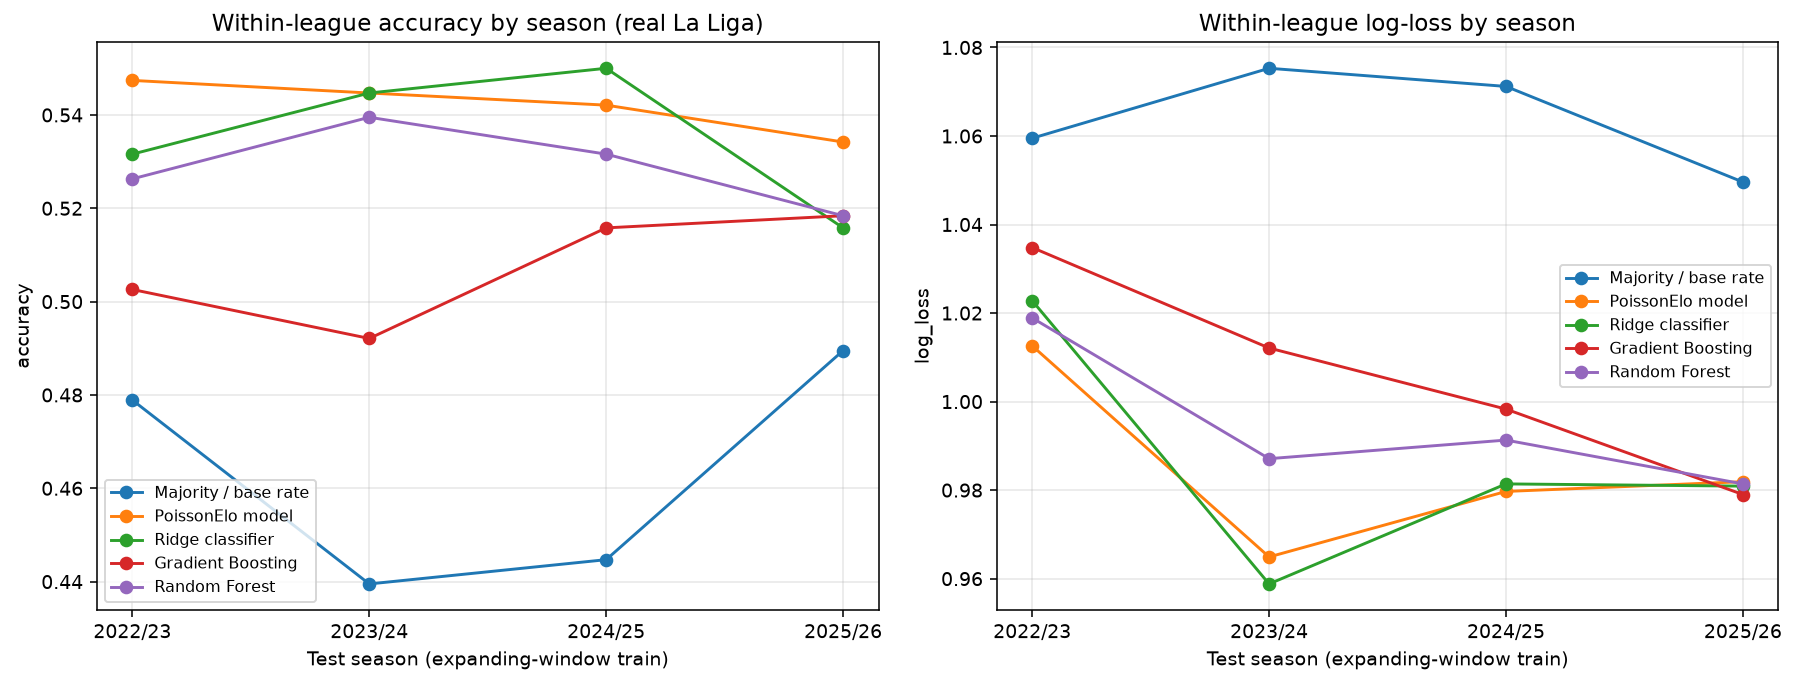
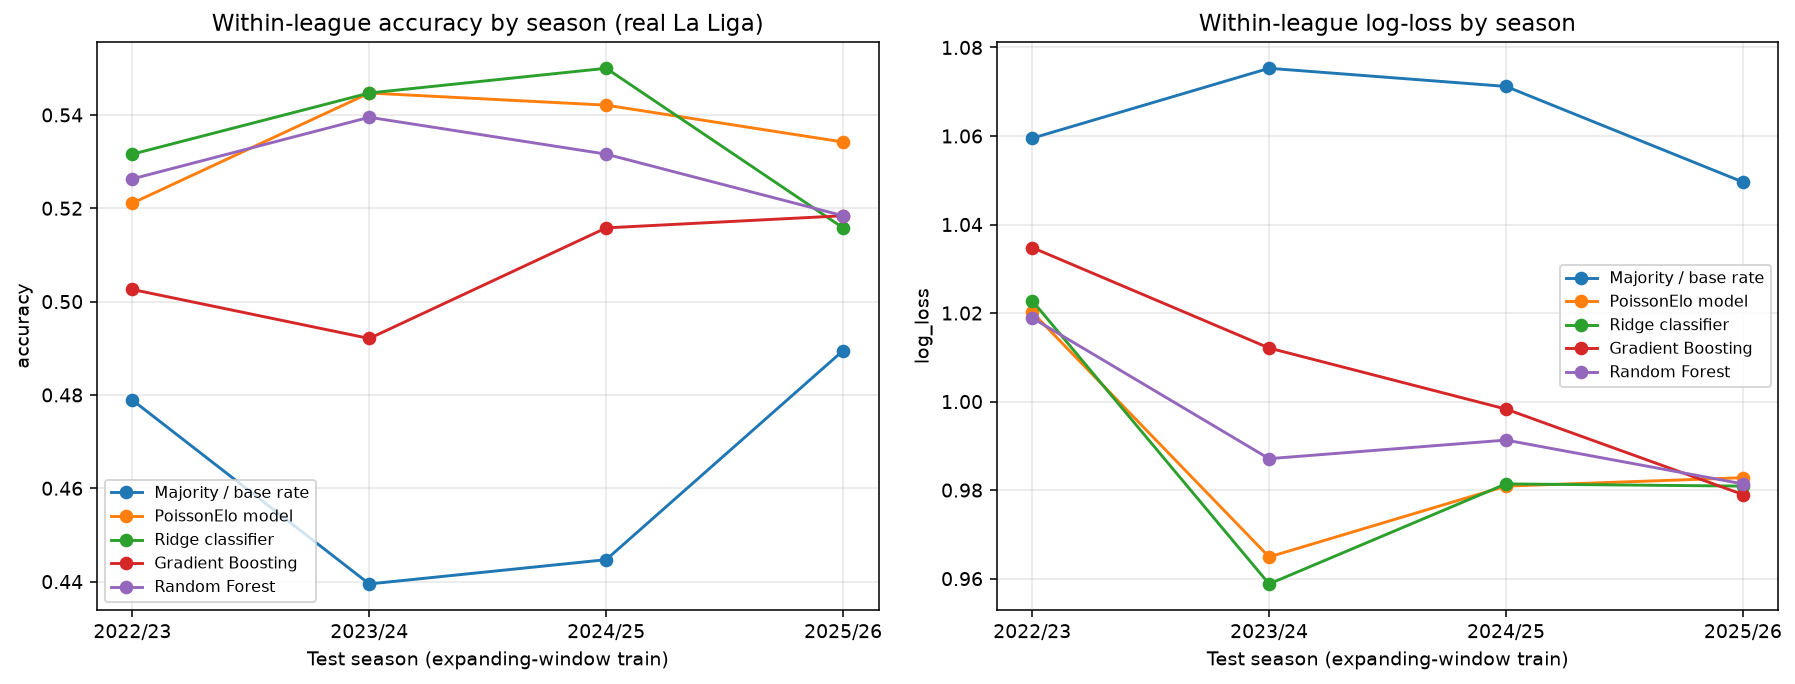
Regenerate real-data artifacts with the Dixon-Coles correction
Season backtest, deep-learning-real and adaptive-transfer outputs now
reflect the DC-adjusted Poisson model (rho fitted on real football data).
Changes are confined to the PoissonElo rows, e.g. La Liga 2022/23 test
ECE 0.081 -> 0.057 (better calibrated) with a small accuracy shift -
the intended effect of the correction.

🤖 Generated with Codebuff

diff --git a/docs/05_season_backtest.md b/docs/05_season_backtest.md
@@ -9,22 +9,22 @@ matches strictly before *i* (running Elo + last-5 form).
 ```
                                     experiment               method  accuracy  balanced_acc  log_loss  brier    ece
 La Liga: train 2021/22-2021/22 -> test 2022/23 Majority / base rate    0.4789        0.3333    1.0595 0.6390 0.0447
-La Liga: train 2021/22-2021/22 -> test 2022/23     PoissonElo model    0.5474        0.4503    1.0126 0.6034 0.0811
+La Liga: train 2021/22-2021/22 -> test 2022/23     PoissonElo model    0.5211        0.4331    1.0202 0.6079 0.0568
 La Liga: train 2021/22-2021/22 -> test 2022/23     Ridge classifier    0.5316        0.4387    1.0228 0.6078 0.0467
 La Liga: train 2021/22-2021/22 -> test 2022/23    Gradient Boosting    0.5026        0.3824    1.0348 0.6215 0.0599
 La Liga: train 2021/22-2021/22 -> test 2022/23        Random Forest    0.5263        0.4271    1.0189 0.6105 0.0613
 La Liga: train 2021/22-2022/23 -> test 2023/24 Majority / base rate    0.4395        0.3333    1.0753 0.6504 0.0171
-La Liga: train 2021/22-2022/23 -> test 2023/24     PoissonElo model    0.5447        0.4798    0.9649 0.5762 0.0723
+La Liga: train 2021/22-2022/23 -> test 2023/24     PoissonElo model    0.5447        0.4798    0.9649 0.5763 0.0709
 La Liga: train 2021/22-2022/23 -> test 2023/24     Ridge classifier    0.5447        0.4821    0.9588 0.5723 0.0528
 La Liga: train 2021/22-2022/23 -> test 2023/24    Gradient Boosting    0.4921        0.4077    1.0121 0.6062 0.0316
 La Liga: train 2021/22-2022/23 -> test 2023/24        Random Forest    0.5395        0.4723    0.9871 0.5875 0.0449
 La Liga: train 2021/22-2023/24 -> test 2024/25 Majority / base rate    0.4447        0.3333    1.0712 0.6477 0.0061
-La Liga: train 2021/22-2023/24 -> test 2024/25     PoissonElo model    0.5421        0.4625    0.9797 0.5824 0.0855
+La Liga: train 2021/22-2023/24 -> test 2024/25     PoissonElo model    0.5421        0.4644    0.9809 0.5832 0.0957
 La Liga: train 2021/22-2023/24 -> test 2024/25     Ridge classifier    0.5500        0.4765    0.9814 0.5827 0.0795
 La Liga: train 2021/22-2023/24 -> test 2024/25    Gradient Boosting    0.5158        0.4389    0.9983 0.5958 0.0343
 La Liga: train 2021/22-2023/24 -> test 2024/25        Random Forest    0.5316        0.4619    0.9913 0.5903 0.0240
 La Liga: train 2021/22-2024/25 -> test 2025/26 Majority / base rate    0.4895        0.3333    1.0496 0.6323 0.0401
-La Liga: train 2021/22-2024/25 -> test 2025/26     PoissonElo model    0.5342        0.4287    0.9819 0.5814 0.0517
+La Liga: train 2021/22-2024/25 -> test 2025/26     PoissonElo model    0.5342        0.4287    0.9828 0.5819 0.0561
 La Liga: train 2021/22-2024/25 -> test 2025/26     Ridge classifier    0.5158        0.4176    0.9809 0.5792 0.0481
 La Liga: train 2021/22-2024/25 -> test 2025/26    Gradient Boosting    0.5184        0.4182    0.9790 0.5816 0.0459
 La Liga: train 2021/22-2024/25 -> test 2025/26        Random Forest    0.5184        0.4296    0.9814 0.5832 0.0444
@@ -35,12 +35,12 @@ La Liga: train 2021/22-2024/25 -> test 2025/26        Random Forest    0.5184   
 ```
                                           experiment               method  accuracy  balanced_acc  log_loss  brier    ece
 La Liga 21/22-24/25 -> Premier League 25/26 (unseen) Majority / base rate    0.4263        0.3333    1.0804 0.6542 0.0230
-La Liga 21/22-24/25 -> Premier League 25/26 (unseen)     PoissonElo model    0.4632        0.3786    1.0504 0.6333 0.0363
+La Liga 21/22-24/25 -> Premier League 25/26 (unseen)     PoissonElo model    0.4658        0.3818    1.0511 0.6338 0.0363
 La Liga 21/22-24/25 -> Premier League 25/26 (unseen)     Ridge classifier    0.4737        0.3955    1.0394 0.6267 0.0303
 La Liga 21/22-24/25 -> Premier League 25/26 (unseen)    Gradient Boosting    0.4763        0.4186    1.0518 0.6333 0.0443
 La Liga 21/22-24/25 -> Premier League 25/26 (unseen)        Random Forest    0.4737        0.4165    1.0531 0.6347 0.0349
 Premier League 21/22-24/25 -> La Liga 25/26 (unseen) Majority / base rate    0.4895        0.3333    1.0546 0.6355 0.0441
-Premier League 21/22-24/25 -> La Liga 25/26 (unseen)     PoissonElo model    0.4868        0.3783    1.0294 0.6169 0.0681
+Premier League 21/22-24/25 -> La Liga 25/26 (unseen)     PoissonElo model    0.4868        0.3783    1.0291 0.6167 0.0711
 Premier League 21/22-24/25 -> La Liga 25/26 (unseen)     Ridge classifier    0.4895        0.3906    1.0258 0.6130 0.0496
 Premier League 21/22-24/25 -> La Liga 25/26 (unseen)    Gradient Boosting    0.4868        0.3798    1.0202 0.6096 0.0606
 Premier League 21/22-24/25 -> La Liga 25/26 (unseen)        Random Forest    0.5026        0.4026    1.0139 0.6055 0.0605

diff --git a/docs/10_adaptive_transfer.md b/docs/10_adaptive_transfer.md
@@ -10,14 +10,14 @@ refits, so the gap isolates the value of adaptation.
 
 ```
                                                 experiment             method  majority_acc  accuracy  balanced_acc  log_loss  brier  acc_first_half  acc_second_half  refits  base_acc
-    Serie A -> Serie A 25/26 (within-league unseen season)           Adaptive      0.389474    0.4974        0.4520    1.0269 0.6158          0.4895           0.5053      32  0.389474
-    Serie A -> Serie A 25/26 (within-league unseen season) Static (frozen ML)      0.389474    0.4868        0.4350    1.0180 0.6093          0.4737           0.5000       0  0.389474
-          Serie A -> La Liga 25/26 (cross-league transfer)           Adaptive      0.489474    0.4605        0.3554    1.0449 0.6272          0.4842           0.4368      28  0.489474
-          Serie A -> La Liga 25/26 (cross-league transfer) Static (frozen ML)      0.489474    0.4868        0.3542    1.0390 0.6245          0.4737           0.5000       0  0.489474
-   Serie A -> Premier League 25/26 (cross-league transfer)           Adaptive      0.426316    0.4342        0.3742    1.0629 0.6420          0.4895           0.3789      32  0.426316
-   Serie A -> Premier League 25/26 (cross-league transfer) Static (frozen ML)      0.426316    0.4474        0.3637    1.0637 0.6422          0.4684           0.4263       0  0.426316
-Football -> synthetic basketball-like league (cross-sport)           Adaptive      0.548750    0.8063        0.7996    0.7350 0.4137          0.7775           0.8350      60  0.548750
-Football -> synthetic basketball-like league (cross-sport) Static (frozen ML)      0.548750    0.8113        0.8022    0.9023 0.5283          0.7850           0.8375       0  0.548750
+    Serie A -> Serie A 25/26 (within-league unseen season)           Adaptive      0.389474    0.4974        0.4554    1.0285 0.6166          0.4895           0.5053      32  0.389474
+    Serie A -> Serie A 25/26 (within-league unseen season) Static (frozen ML)      0.389474    0.4868        0.4350    1.0189 0.6098          0.4737           0.5000       0  0.389474
+          Serie A -> La Liga 25/26 (cross-league transfer)           Adaptive      0.489474    0.4632        0.3608    1.0474 0.6289          0.4895           0.4368      28  0.489474
+          Serie A -> La Liga 25/26 (cross-league transfer) Static (frozen ML)      0.489474    0.4868        0.3542    1.0412 0.6261          0.4737           0.5000       0  0.489474
+   Serie A -> Premier League 25/26 (cross-league transfer)           Adaptive      0.426316    0.4395        0.3806    1.0640 0.6428          0.4947           0.3842      32  0.426316
+   Serie A -> Premier League 25/26 (cross-league transfer) Static (frozen ML)      0.426316    0.4474        0.3637    1.0646 0.6429          0.4684           0.4263       0  0.426316
+Football -> synthetic basketball-like league (cross-sport)           Adaptive      0.548750    0.8063        0.7996    0.7457 0.4196          0.7775           0.8350      60  0.548750
+Football -> synthetic basketball-like league (cross-sport) Static (frozen ML)      0.548750    0.8113        0.8022    0.9146 0.5366          0.7850           0.8375       0  0.548750
 ```
 
 *(Saved by `scripts/10_adaptive_transfer.py`; full numbers in

diff --git a/docs/08_full_metrics_report.md b/docs/08_full_metrics_report.md
@@ -38,7 +38,7 @@ t-tests on the per-bet data, and the $1M simulation gets a bootstrap
             Transfer: Premier League                  sklearn Random Forest acc (CI)                       36.8% [0.3, 0.4]
             Transfer: Premier League PyTorch NN - cold start (no team info) acc (CI)                       42.6% [0.4, 0.5]
            Season backtest (La Liga)                        Majority / base rate acc                   46.3% (44.0%..48.9%)
-           Season backtest (La Liga)                            PoissonElo model acc                   54.2% (53.4%..54.7%)
+           Season backtest (La Liga)                            PoissonElo model acc                   53.6% (52.1%..54.5%)
            Season backtest (La Liga)                            Ridge classifier acc                   53.6% (51.6%..55.0%)
            Season backtest (La Liga)                           Gradient Boosting acc                   50.7% (49.2%..51.8%)
            Season backtest (La Liga)                               Random Forest acc                   52.9% (51.8%..53.9%)
@@ -46,10 +46,10 @@ t-tests on the per-bet data, and the $1M simulation gets a bootstrap
       Deep net: baseline_4feat_calib                                 La Liga/EPL acc                          51.6% / 47.1%
          Deep net: regularised_4feat                                 La Liga/EPL acc                          52.1% / 47.6%
     Deep net: rich_8feat_regularised                                 La Liga/EPL acc                          50.8% / 48.4%
-    Deep net: SYN_baseline_4feat_raw                                 La Liga/EPL acc                          48.7% / 42.6%
-  Deep net: SYN_baseline_4feat_calib                                 La Liga/EPL acc                          50.5% / 43.4%
-     Deep net: SYN_regularised_4feat                                 La Liga/EPL acc                          50.5% / 43.4%
-Deep net: SYN_rich_8feat_regularised                                 La Liga/EPL acc                          50.0% / 44.0%
+    Deep net: SYN_baseline_4feat_raw                                 La Liga/EPL acc                          46.1% / 45.5%
+  Deep net: SYN_baseline_4feat_calib                                 La Liga/EPL acc                          48.7% / 48.2%
+     Deep net: SYN_regularised_4feat                                 La Liga/EPL acc                          49.5% / 47.9%
+Deep net: SYN_rich_8feat_regularised                                 La Liga/EPL acc                          48.7% / 50.0%
           $1M simulation (25 trials)                                   mean (95% CI)            $943,996 [893,780, 995,772]
           $1M simulation (25 trials)                       median / P(profit) / ruin                    $938,000 / 32% / 0%
           $1M simulation (25 trials)                                90% range / skew            [759,900, 1,148,660] / +0.2

diff --git a/docs/07_deep_learning_real.md b/docs/07_deep_learning_real.md
@@ -35,10 +35,10 @@ SYN_rich_8feat_regularised           8                  0.4868                  
 
 ```
                                                                                                                       0                                                                                                 1
-single__La Liga 25/26  {'accuracy': 0.5211, 'balanced_acc': 0.4293, 'log_loss': 0.9656, 'brier': 0.5722, 'ece': 0.0403}   {'accuracy': 0.5158, 'balanced_acc': 0.4179, 'log_loss': 0.972, 'brier': 0.5748, 'ece': 0.0342}
-single__EPL 25/26      {'accuracy': 0.4763, 'balanced_acc': 0.4157, 'log_loss': 1.0459, 'brier': 0.6303, 'ece': 0.0486}  {'accuracy': 0.4579, 'balanced_acc': 0.3774, 'log_loss': 1.0549, 'brier': 0.6359, 'ece': 0.0338}
-dual__La Liga 25/26     {'accuracy': 0.5105, 'balanced_acc': 0.414, 'log_loss': 0.9773, 'brier': 0.5793, 'ece': 0.0535}     {'accuracy': 0.5, 'balanced_acc': 0.4038, 'log_loss': 0.9802, 'brier': 0.5806, 'ece': 0.0796}
-dual__EPL 25/26        {'accuracy': 0.4974, 'balanced_acc': 0.4417, 'log_loss': 1.0232, 'brier': 0.6147, 'ece': 0.0719}  {'accuracy': 0.4763, 'balanced_acc': 0.4183, 'log_loss': 1.0187, 'brier': 0.6117, 'ece': 0.0405}
+single__La Liga 25/26  {'accuracy': 0.5211, 'balanced_acc': 0.4293, 'log_loss': 0.9656, 'brier': 0.5722, 'ece': 0.0403}    {'accuracy': 0.5184, 'balanced_acc': 0.4215, 'log_loss': 0.9725, 'brier': 0.575, 'ece': 0.037}
+single__EPL 25/26      {'accuracy': 0.4763, 'balanced_acc': 0.4157, 'log_loss': 1.0459, 'brier': 0.6303, 'ece': 0.0486}  {'accuracy': 0.4579, 'balanced_acc': 0.3774, 'log_loss': 1.0554, 'brier': 0.6363, 'ece': 0.0294}
+dual__La Liga 25/26     {'accuracy': 0.5105, 'balanced_acc': 0.414, 'log_loss': 0.9773, 'brier': 0.5793, 'ece': 0.0535}     {'accuracy': 0.5, 'balanced_acc': 0.4038, 'log_loss': 0.9804, 'brier': 0.5807, 'ece': 0.0834}
+dual__EPL 25/26        {'accuracy': 0.4974, 'balanced_acc': 0.4417, 'log_loss': 1.0232, 'brier': 0.6147, 'ece': 0.0719}  {'accuracy': 0.4763, 'balanced_acc': 0.4183, 'log_loss': 1.0186, 'brier': 0.6116, 'ece': 0.0419}
 ```
 
 ## Root-cause analysis
